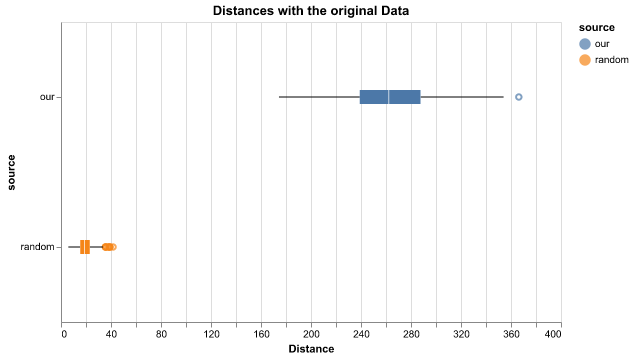
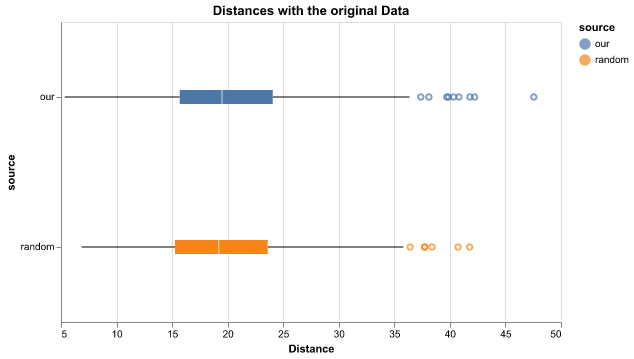
generating a Plot for visualize distances, adjusted the neigh with a lot of encoding

diff --git a/main.py b/main.py
@@ -61,8 +61,11 @@ class ProbabilitiesWeightBasedGenerator(NeighborhoodGenerator):
     def __init__(self, bbox: AbstractBBox, dataset: Dataset, encoder: EncDec, ocr=0.1):
         super().__init__(bbox, dataset, encoder, ocr)
         self.neighborhood = None
+        self.preprocess = bbox.bbox.named_steps.get('columntransformer')
 
-    def generate(self, x: np.array, num_instances: int, descriptor: dict, encoder):
+    def generate(self, z: np.array, num_instances: int, descriptor: dict, encoder):
+        x = encoder.decode(z.reshape(1, -1))[0]
+        z1 = self.preprocess.transform(x.reshape(1, -1))[0]
 
         perturbed_arrays = []
 
@@ -86,7 +89,7 @@ class ProbabilitiesWeightBasedGenerator(NeighborhoodGenerator):
         ]
 
         for _ in range(num_instances):
-            perturbed_arr = x.copy()
+            perturbed_arr = z1.copy()
 
             for val in range(0, 3):  # covid
                 perturbed_arr[val] = random.choices(choices, weights=covid_weights[val])[0]
@@ -97,7 +100,13 @@ class ProbabilitiesWeightBasedGenerator(NeighborhoodGenerator):
             perturbed_arr[7] = random.choice(range(42, 442, 7))
             perturbed_arr[8] = random.choice(range(7, 148, 7))
 
-            perturbed_arrays.append(perturbed_arr)
+            covid_sec = [f"c{int(v)}" for v in perturbed_arr[0:3]]
+            mob_sec = [f"m{int(v)}" for v in perturbed_arr[3:7]]
+            tot = [*covid_sec, *mob_sec, perturbed_arr[7], perturbed_arr[8]]
+
+            dec = encoder.encode([tot])[0]
+
+            perturbed_arrays.append(dec)
 
         # save to png
         self.neighborhood = np.array(perturbed_arrays)
@@ -164,18 +173,7 @@ def compute_statistics_distance():
     data = TabularDataset(data=res, class_name='Class_label')
     x = data.df.iloc[355, :-1].values
     encoder = ColumnTransformerEnc(data.descriptor)
-
-
-    # We transform the input data for an OrdinalEncoder, as used in the model.
-    X_feat = res.loc[:, 'Week5_Covid':'Duration']
-    data_transf = model.named_steps.get('columntransformer').transform(X_feat)
-    data_df = pd.DataFrame(data_transf,columns=X_feat.columns)
-
-    data_wrapper = TabularDataset(data=data_df, )
-
-
-    iEncoder = IdentityEncoder(data.descriptor)
-    generator = ProbabilitiesWeightBasedGenerator(bbox, data, iEncoder)
+    generator = ProbabilitiesWeightBasedGenerator(bbox, data, encoder)
     rnd_generator = RandomGenerator(bbox, data, encoder)
 
     print('Computing distances of custom generator')
@@ -201,6 +199,7 @@ def compute_statistics_distance():
         title='Distances with the original Data'
     )
     box_plot.save('plot/boxplot.png')
+
 
 def measure_distances(data, encoder, generator, x):
     global_mins = []
